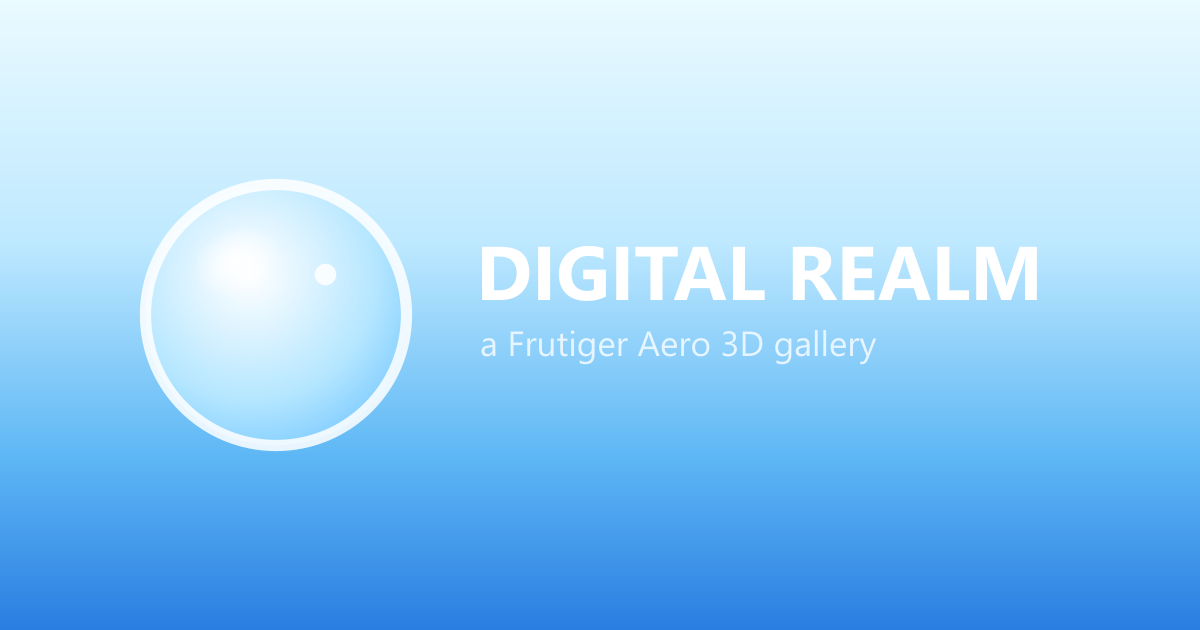
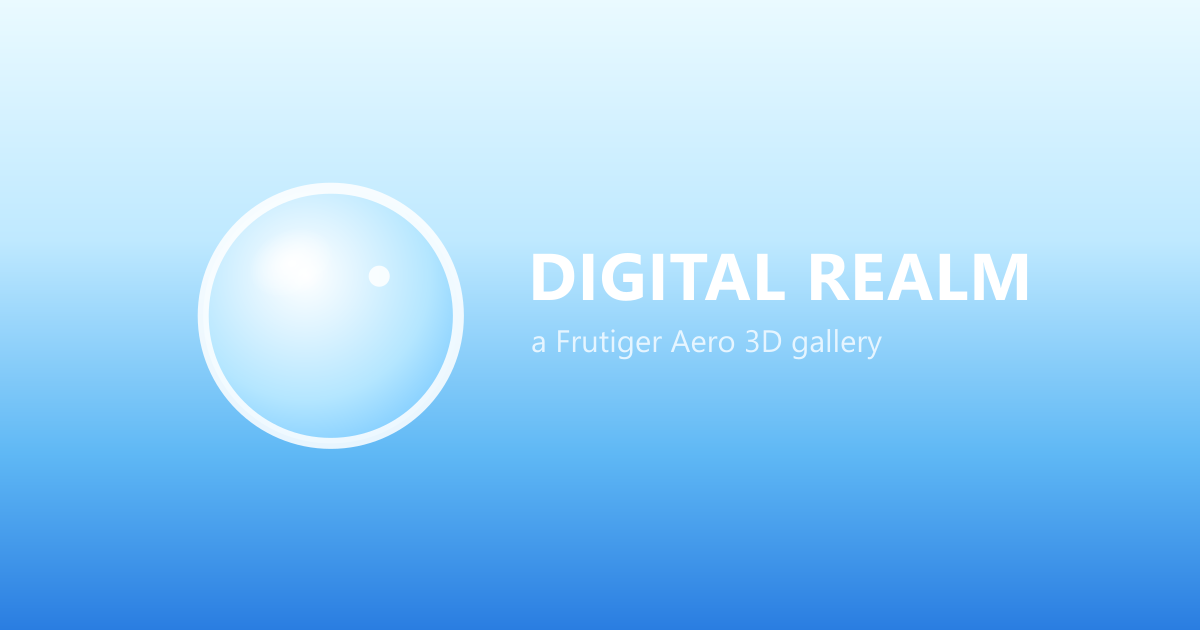
README: fork-to-deploy flow, YouTube/Twitch examples; rebalance OG card
- Run/deploy now walks fork → edit config.js → deploy your own fork, and
  warns against shipping the unedited original; local serve is preview-only
- projects example uses YouTube + Twitch
- og-image recomposed with even margins so "DIGITAL REALM" is fully shown

Changed region(s): [[0.0925, 0.2714, 0.8633, 0.7238]]

diff --git a/README.md b/README.md
@@ -30,8 +30,8 @@ gallery per user.)
 
 ```js
 projects: [
-  { name: "guns.lol",   url: "https://guns.lol/akilluminati47" },
-  { name: "DemonBot",   url: "https://demonbot.win" },
+  { name: "YouTube", url: "https://youtube.com/@akilluminati47" },
+  { name: "Twitch",  url: "https://twitch.tv/akilluminati47" },
   // …add as many as you like
 ],
 ```
@@ -96,11 +96,23 @@ into one and click a panel that's now behind you.
 
 ## Run / deploy
 
-* **Local:** serve the folder with any static server, e.g. `python -m http.server 4173`,
-  then open `http://localhost:4173`. (Opening `index.html` directly also works, but a
-  server avoids module/CORS quirks.)
-* **Cloudflare Pages / any static host:** point it at this repo root. There's no build
-  command and no output directory to configure — it's already static.
+This gallery is meant to be **forked and made your own** — not run from this repo as-is,
+and not by pointing people at the unedited original.
+
+1. **Fork** this repository to your own GitHub account.
+2. **Edit [`config.js`](config.js)** in your fork: set `creator` to your handle and
+   replace `projects` with your own works. That's the only file you touch.
+3. **Deploy your fork to Cloudflare Pages** (or any static host): create a Pages
+   project, connect your forked repo, and accept the defaults — **no build command,
+   no output directory**, it's already static. Every push to `main` redeploys.
+
+> Don't ship the unedited gallery — fork it so the worlds, the entrance name, and the
+> link-preview card are all yours.
+
+**Local preview (optional, while editing):** serve the folder with any static server,
+e.g. `python -m http.server 4173`, then open `http://localhost:4173`. A server avoids
+module/CORS quirks you'd hit opening `index.html` straight off disk. This is just for
+checking your edits before you push — the real home is your deployed fork.
 
 ---
 